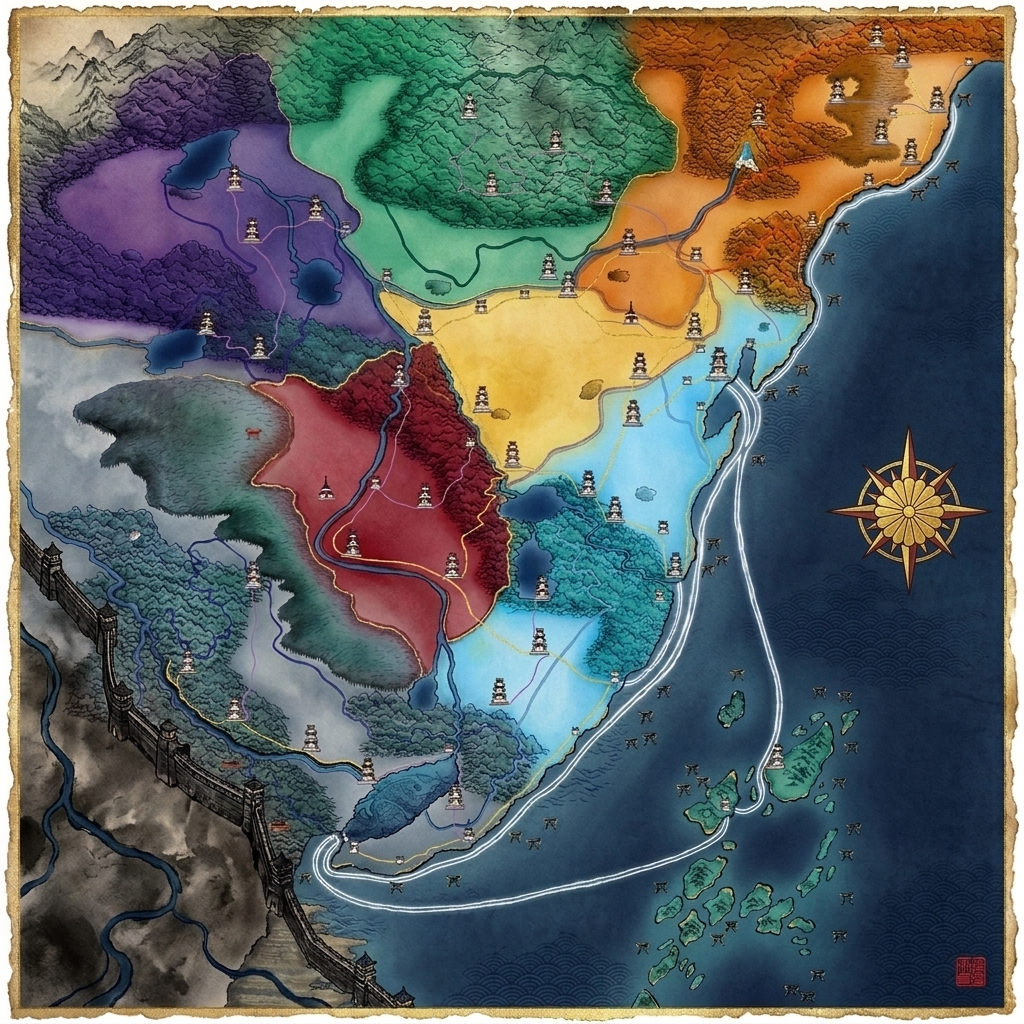
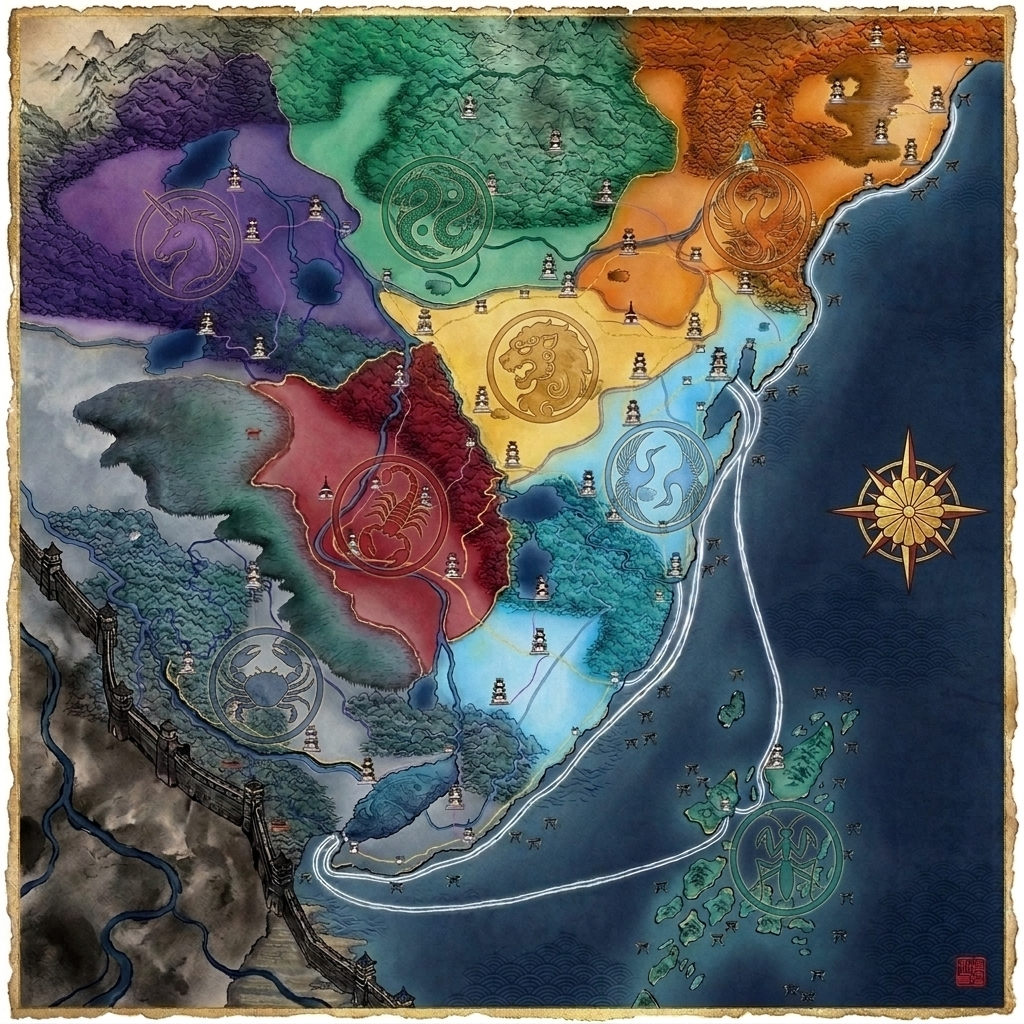
feat(map): embed official 4e Great Clan mons as watermarks on HD map

diff --git a/carte.html b/carte.html
@@ -38,12 +38,9 @@
 
       <!-- CONTRÔLES RAPIDES DU CHEMIN DES PJs -->
       <div class="p-3 rounded-xl bg-black/50 border border-amber-500/30 space-y-2.5 shrink-0 lg:min-w-[340px]">
-        <div class="flex items-center justify-between gap-2 flex-wrap">
+        <div class="flex items-center justify-between gap-2">
           <button type="button" id="btn-toggle-route" class="clan-lineage-pill is-active">
             🗺 Chemin des PJs : Visible
-          </button>
-          <button type="button" id="btn-toggle-clans-mon" class="clan-lineage-pill is-active">
-            🏯 Blasons : Visible
           </button>
           <span id="map-act-badge" class="text-[11px] font-mono font-bold text-amber-300">Actes 1 à 10 / 10</span>
         </div>
@@ -98,7 +95,6 @@
               draggable="false"
               class="w-full h-full object-fill block pointer-events-none select-none"
             />
-            <div id="map-clans-watermarks" class="absolute inset-0 pointer-events-none z-[5]"></div>
             <svg id="map-route-svg" viewBox="0 0 100 100" preserveAspectRatio="none" class="absolute inset-0 w-full h-full pointer-events-none z-10"></svg>
             <div id="map-markers-layer" class="absolute inset-0 z-20"></div>
           </div>

diff --git a/CHANGELOG.md b/CHANGELOG.md
@@ -11,7 +11,7 @@ Le format est inspiré de [Keep a Changelog](https://keepachangelog.com/fr/1.1.0
 ### 🎨 Amélioré
 - **Carte de Rokugan HD Enluminée** (`assets/images/carte_rokugan.jpg`, `carte.html`, `sw.js`) :
   - Remplacement de la carte par une nouvelle version haute définition en style parchemin impérial japonais *ukiyo-e / sumi-e* conservant la géographie canonique exacte (côtes, îles de la Mante, forêt de Shinomen, rivières, Mur des Kaiu).
-  - **Territoires des Clans clairement apparents & Blasons en Filigrane** (`carte.html`, `js/carte-rokugan.js`) : chaque grand clan (*Licorne, Dragon, Phénix, Lion, Grue, Scorpion, Crabe, Mante*) ainsi que l'*Outremonde* est visuellement identifié par un lavis de couleur distinct et des frontières dorées finement encrées, complétés par les **8 *mon* des Grands Clans en filigrane** sur leurs territoires respectifs (activables/masquables via le bouton `🏯 Blasons`).
+  - **Territoires des Clans clairement apparents & *Mon* officiels en filigrane** (`assets/images/carte_rokugan.jpg`) : chaque grand clan (*Licorne, Dragon, Phénix, Lion, Grue, Scorpion, Crabe, Mante*) ainsi que l'*Outremonde* est visuellement identifié par un lavis de couleur distinct, des frontières dorées finement encrées et son **blason (*mon*) officiel de la 4ᵉ édition** intégré en filigrane sur son territoire, avec vagues *seigaiha* et rose des vents impériale.
   - Ajustement du ratio d'affichage (`aspect-square`) dans `carte.html` pour préserver la netteté HD sans aucune déformation et mise à jour du cache Service Worker (`l5r-forge-v1.23.0`).
 
 ---
